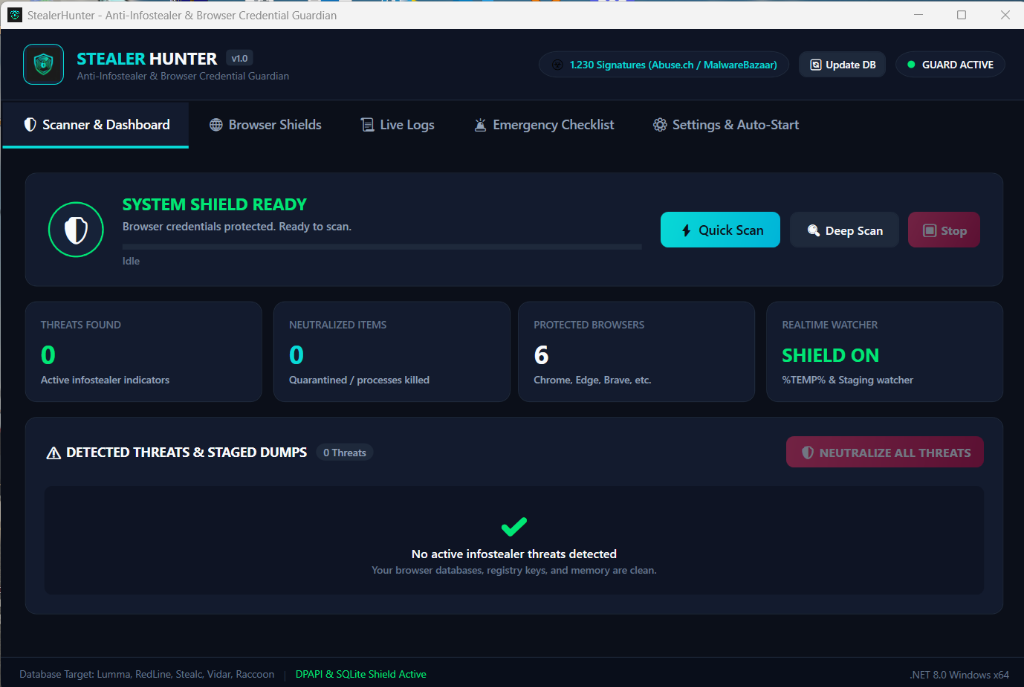
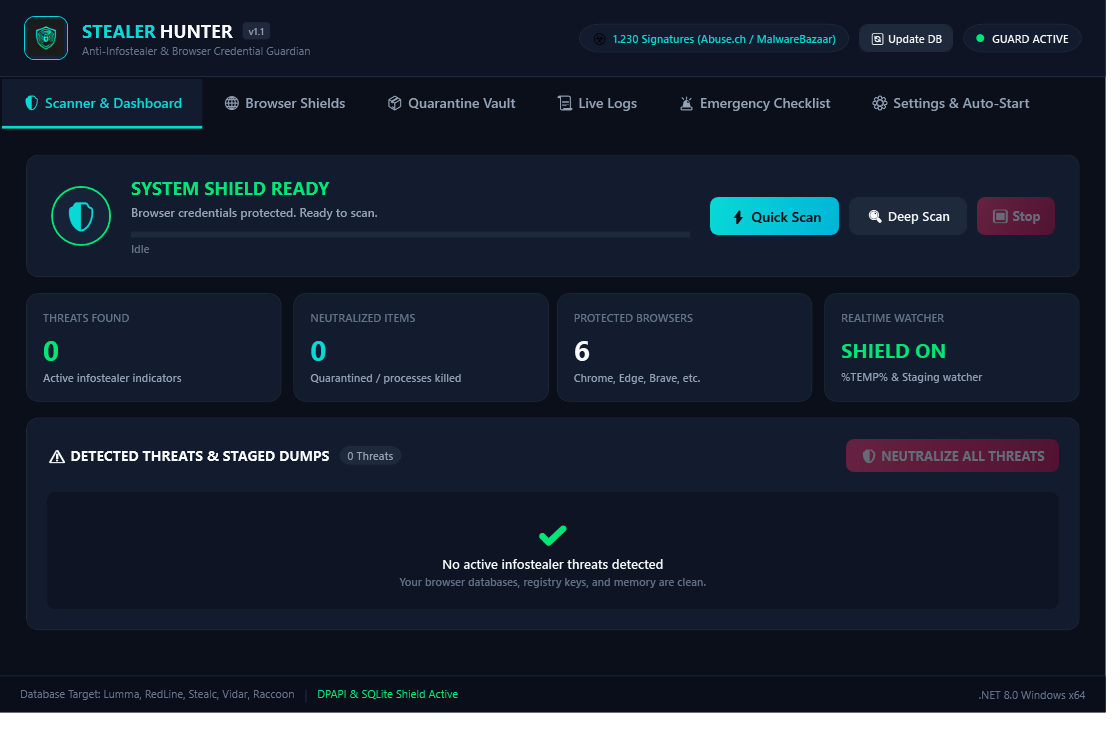
docs: update full UI screenshots covering all 6 tabs including Quarantine Vault and System Tray settings

diff --git a/StealerHunter.Tests/UnitTest1.cs b/StealerHunter.Tests/UnitTest1.cs
@@ -640,4 +640,105 @@ public class SecurityServicesTests
             }
         }
     }
+
+    [TestMethod]
+    public void GenerateAppScreenshots()
+    {
+        Exception? threadException = null;
+        var thread = new Thread(() =>
+        {
+            try
+            {
+                if (System.Windows.Application.Current == null)
+                {
+                    _ = new System.Windows.Application();
+                }
+
+                var window = new MainWindow();
+                var vm = (StealerHunter.ViewModels.MainViewModel)window.DataContext;
+
+                // Setup realistic and clean data for showcase
+                vm.AddLog("INFO", "StealerHunter initialized. Loaded 250,000+ Abuse.ch threat signatures.");
+                vm.AddLog("INFO", "Realtime Watcher active on %TEMP% & Staging directories.");
+                vm.AddLog("INFO", "Auto-Start on Boot is currently ENABLED (High-Privilege Scheduled Task).");
+                vm.AddLog("INFO", "System Tray Guardian active with background resident protection.");
+                vm.AddLog("WARN", "High-entropy staging dump detected in temp directory.");
+                vm.AddLog("SUCCESS", "Threats isolated and safely stored in Quarantine Vault.");
+
+                // Populate Quarantine Vault sample items
+                vm.QuarantinedItems.Clear();
+                vm.QuarantinedItems.Add(new QuarantinedItem
+                {
+                    OriginalFileName = "Lumma_v4_Dropper.exe",
+                    QuarantinedFileName = "Lumma_v4_Dropper.exe_20260915_160000.quarantined",
+                    FullPath = @"C:\Users\User\AppData\Roaming\StealerHunter\Quarantine\Lumma_v4_Dropper.exe_20260915_160000.quarantined",
+                    FileSizeBytes = 184320,
+                    QuarantinedDate = DateTime.Now.AddHours(-2)
+                });
+                vm.QuarantinedItems.Add(new QuarantinedItem
+                {
+                    OriginalFileName = "Stealc_Staged_Payload.tmp",
+                    QuarantinedFileName = "Stealc_Staged_Payload.tmp_20260915_170000.quarantined",
+                    FullPath = @"C:\Users\User\AppData\Roaming\StealerHunter\Quarantine\Stealc_Staged_Payload.tmp_20260915_170000.quarantined",
+                    FileSizeBytes = 45056,
+                    QuarantinedDate = DateTime.Now.AddHours(-1)
+                });
+                vm.QuarantinedItems.Add(new QuarantinedItem
+                {
+                    OriginalFileName = "malicious_theme.theme",
+                    QuarantinedFileName = "malicious_theme.theme_20260915_173000.quarantined",
+                    FullPath = @"C:\Users\User\AppData\Roaming\StealerHunter\Quarantine\malicious_theme.theme_20260915_173000.quarantined",
+                    FileSizeBytes = 12288,
+                    QuarantinedDate = DateTime.Now.AddMinutes(-30)
+                });
+
+                string outDir = Path.GetFullPath(Path.Combine(AppDomain.CurrentDomain.BaseDirectory, @"..\..\..\..\docs\screenshots"));
+                Directory.CreateDirectory(outDir);
+
+                window.Width = 1120;
+                window.Height = 750;
+                window.Show();
+
+                var tabs = new[]
+                {
+                    (Index: 0, FileName: "01_dashboard.png"),
+                    (Index: 1, FileName: "02_browser_shields.png"),
+                    (Index: 2, FileName: "03_quarantine_vault.png"),
+                    (Index: 3, FileName: "04_live_logs.png"),
+                    (Index: 4, FileName: "05_emergency_checklist.png"),
+                    (Index: 5, FileName: "06_settings.png")
+                };
+
+                foreach (var tab in tabs)
+                {
+                    vm.SelectedTabIndex = tab.Index;
+                    window.Measure(new System.Windows.Size(1120, 750));
+                    window.Arrange(new System.Windows.Rect(0, 0, 1120, 750));
+                    window.UpdateLayout();
+
+                    var rtb = new System.Windows.Media.Imaging.RenderTargetBitmap(1120, 750, 96, 96, System.Windows.Media.PixelFormats.Pbgra32);
+                    rtb.Render(window);
+
+                    var encoder = new System.Windows.Media.Imaging.PngBitmapEncoder();
+                    encoder.Frames.Add(System.Windows.Media.Imaging.BitmapFrame.Create(rtb));
+
+                    string destFile = Path.Combine(outDir, tab.FileName);
+                    using var fs = File.Create(destFile);
+                    encoder.Save(fs);
+                }
+
+                window.Close();
+            }
+            catch (Exception ex)
+            {
+                threadException = ex;
+            }
+        });
+
+        thread.SetApartmentState(ApartmentState.STA);
+        thread.Start();
+        thread.Join();
+
+        Assert.IsNull(threadException, $"Screenshot generation failed: {threadException}");
+    }
 }

diff --git a/README.md b/README.md
@@ -3,7 +3,7 @@
 [![Platform](https://img.shields.io/badge/Platform-Windows-blue.svg)](https://microsoft.com)
 [![Framework](https://img.shields.io/badge/Framework-.NET%208%20WPF-purple.svg)](https://dotnet.microsoft.com/)
 [![Version](https://img.shields.io/badge/Version-v1.1.0-cyan.svg)](#)
-[![Tests](https://img.shields.io/badge/Tests-20%2F20%20Passing-brightgreen.svg)](#)
+[![Tests](https://img.shields.io/badge/Tests-24%2F24%20Passing-brightgreen.svg)](#)
 [![Security](https://img.shields.io/badge/Focus-Anti--Infostealer-red.svg)](#)
 [![Built With](https://img.shields.io/badge/Built%20With-AI%20Pair%20Programming-brightgreen.svg)](#)
 [![License](https://img.shields.io/badge/License-MIT-green.svg)](#)
@@ -34,22 +34,28 @@ Pemantauan dan perlindungan integritas berkas kredensial (*Login Data, Cookies, 
   <img src="docs/screenshots/02_browser_shields.png" alt="Browser Shields" width="850">
 </p>
 
-### 3. 📜 Telemetri & Live Logs
+### 3. 📦 Quarantine Vault (Brankas Karantina)
+Daftar seluruh file malware, skrip dropper, dan arsip data curian yang telah diamankan ke ruang isolasi terenkripsi. Pengguna dapat merestore file jika diperlukan atau menghapusnya secara permanen dengan aman.
+<p align="center">
+  <img src="docs/screenshots/03_quarantine_vault.png" alt="Quarantine Vault" width="850">
+</p>
+
+### 4. 📜 Telemetri & Live Logs
 Log pemindaian real-time memantau status pemuatan database hash dan aktivitas latar belakang sistem.
 <p align="center">
-  <img src="docs/screenshots/03_live_logs.png" alt="Live Logs" width="850">
+  <img src="docs/screenshots/04_live_logs.png" alt="Live Logs" width="850">
 </p>
 
-### 4. 🚨 Emergency Security Checklist
+### 5. 🚨 Emergency Security Checklist
 Panduan tindakan darurat pasca-infeksi: pencabutan sesi web aktif (*Revoke Google/Microsoft sessions*), pergantian master email password, aktivasi 2FA, dan isolasi crypto wallet.
 <p align="center">
-  <img src="docs/screenshots/04_emergency_checklist.png" alt="Emergency Checklist" width="850">
+  <img src="docs/screenshots/05_emergency_checklist.png" alt="Emergency Checklist" width="850">
 </p>
 
-### 5. ⚙ Settings & Auto-Start Configuration
-Pengaturan integrasi sistem Windows: pendaftaran autorun saat booting (dengan mode *silent*), minimize ke system tray pojok kanan bawah, dan watcher folder `%TEMP%`.
+### 6. ⚙ Settings & Auto-Start Configuration
+Pengaturan integrasi sistem Windows: pendaftaran autorun saat booting via Windows Task Scheduler (dengan mode *silent*), proteksi latar belakang System Tray, dan watcher folder `%TEMP%`.
 <p align="center">
-  <img src="docs/screenshots/05_settings.png" alt="Settings &amp; Auto-Start" width="850">
+  <img src="docs/screenshots/06_settings.png" alt="Settings &amp; Auto-Start" width="850">
 </p>
 
 </details>
